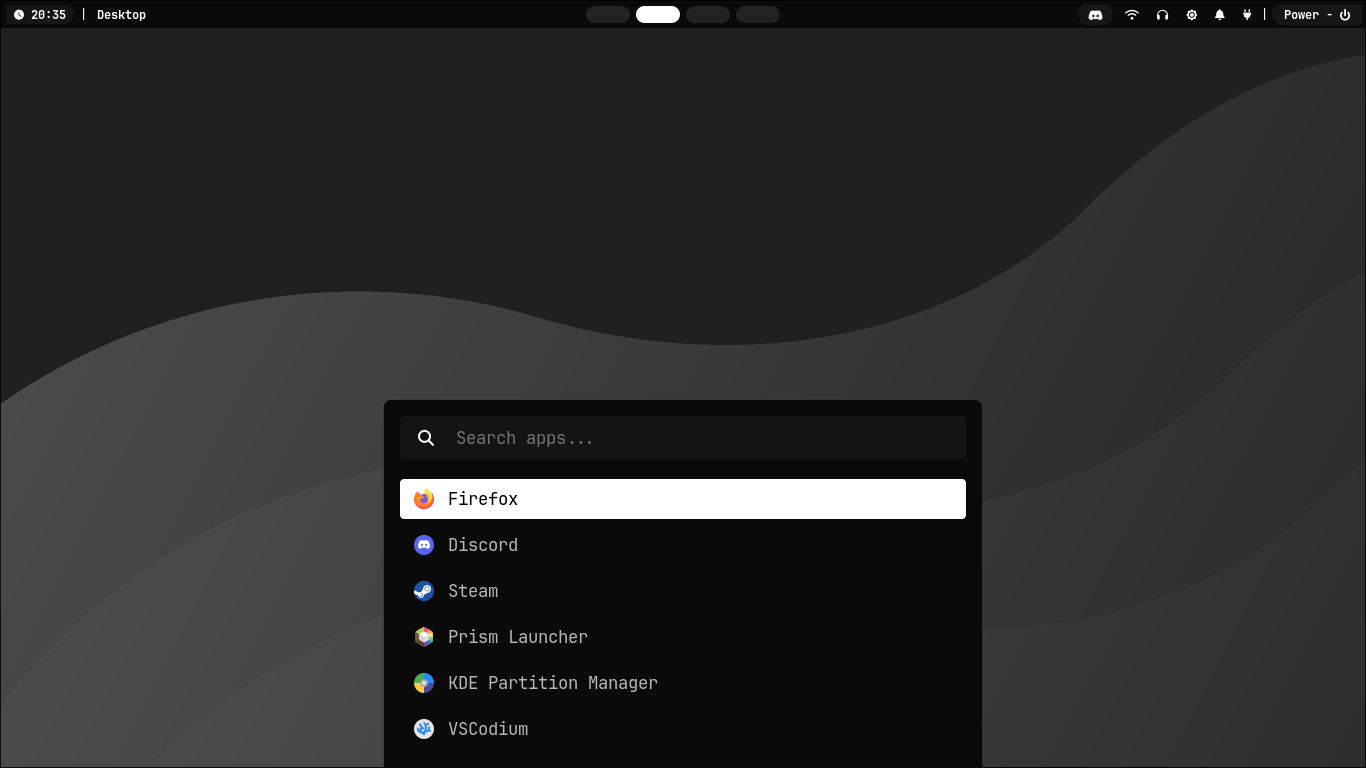
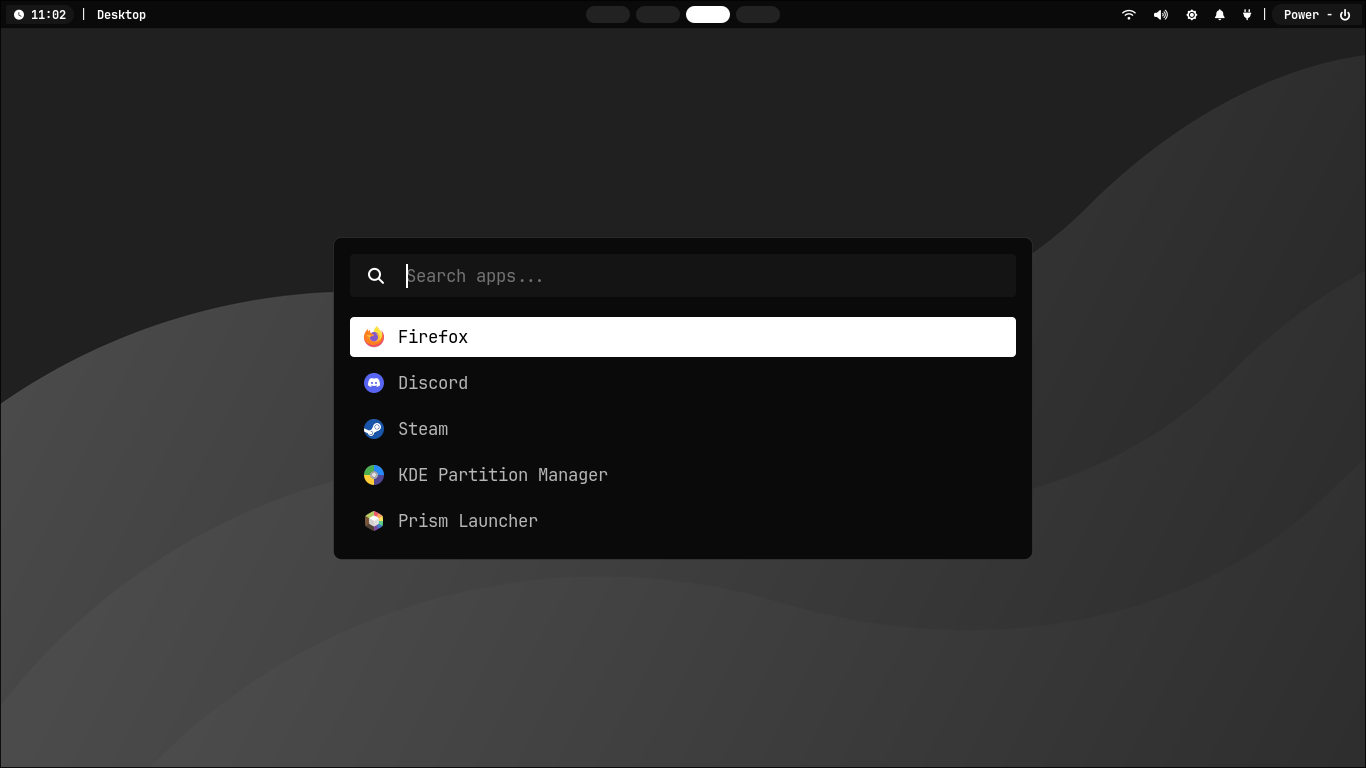
atualizando a posição do rofi e imagens de preview

diff --git a/README.md b/README.md
@@ -66,6 +66,7 @@ Após a instalação, existem alguns passos manuais para deixar tudo funcionando
 ## Pré-visualização
 ![Desktop](/previews/desktop.png)
 ![Rofi](/previews/rofi.png)
+![Wallpicker](/previews/wallpicker.png)
 ![Swaync](/previews/swaync.png)
 ![GTK/Terminal](/previews/gtkandterminal.png)
 
